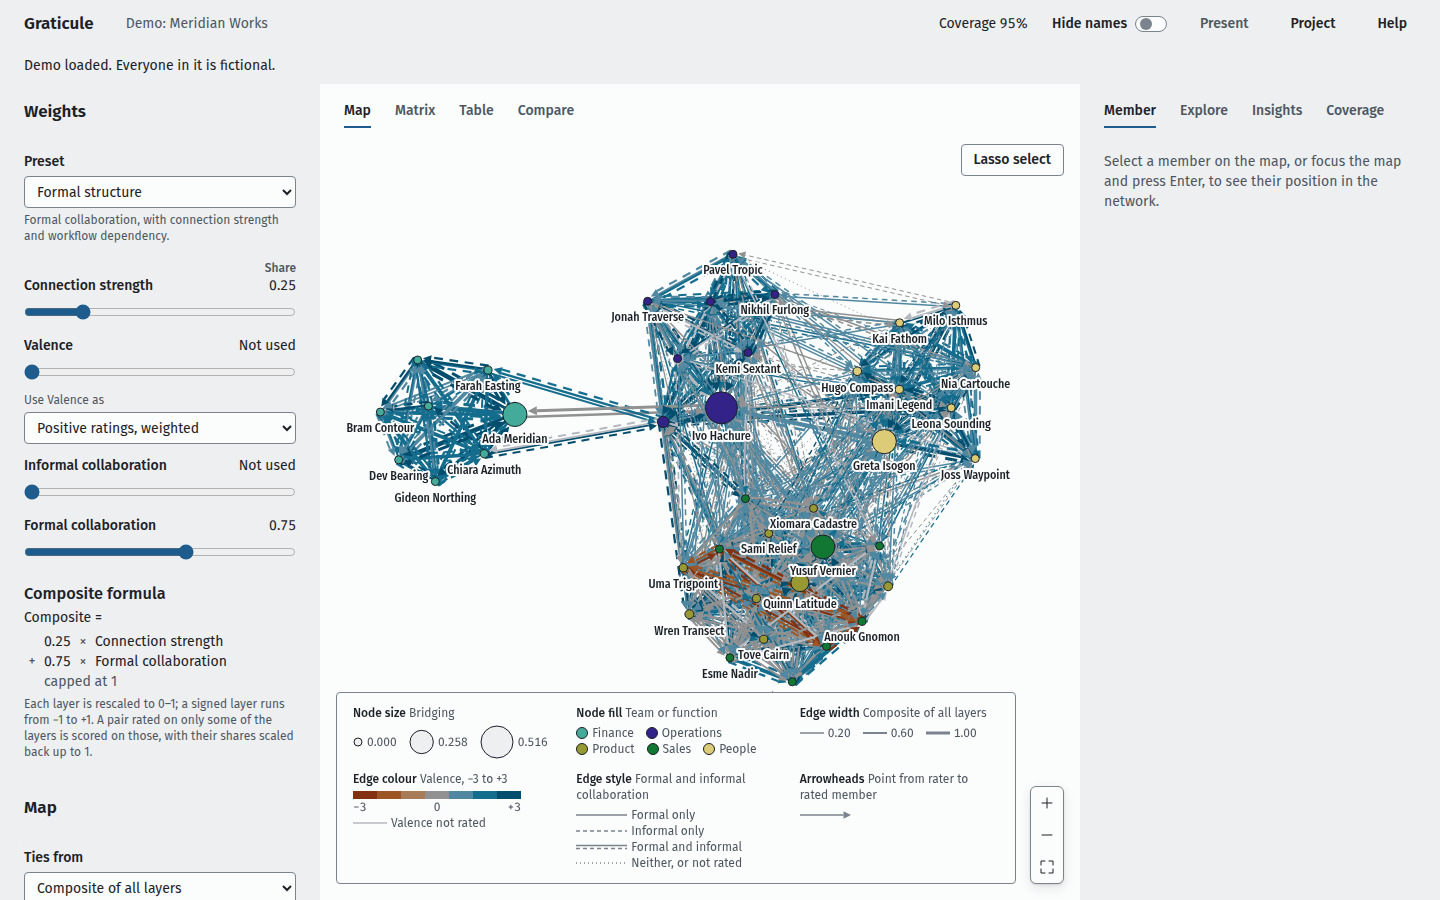
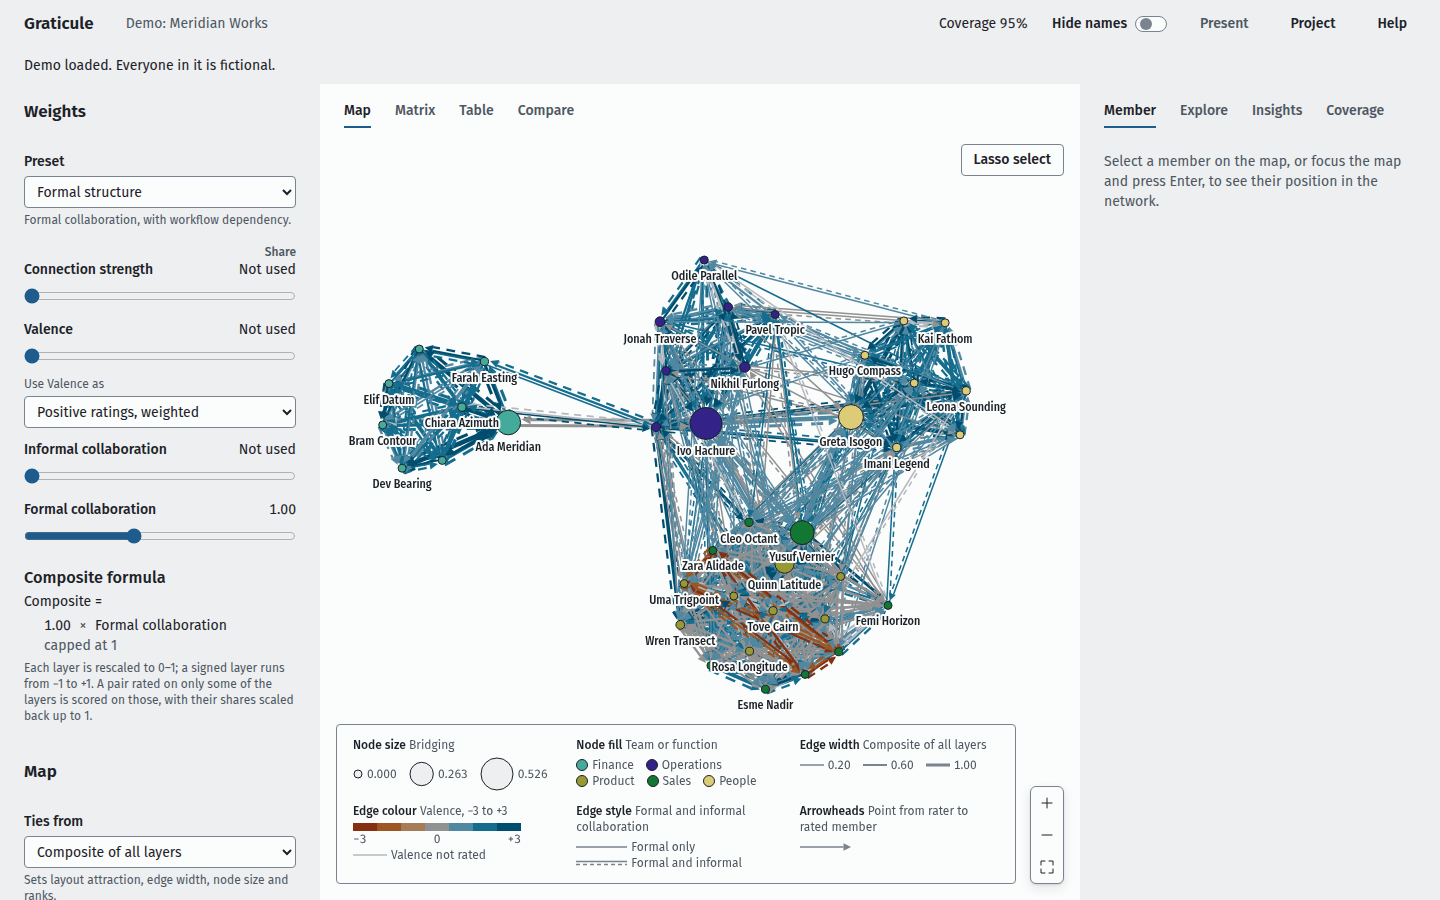
Presets: one 2:1 rule, valence as multiplier, no connection strength in formal or informal
Owner's answer to Q25: the defining layer has twice the raw weight of
each supporting layer; Relationship health scales its composite by
valence; Formal structure and Informal network no longer include
connection strength. Method notes, CLAUDE.md, tests and screenshots
updated.

Claude-Session: https://claude.ai/code/session_012WgdDTaTCoDTSkUx2Jhk5W

diff --git a/src/ui/state/presets.ts b/src/ui/state/presets.ts
@@ -17,24 +17,23 @@ interface PresetDefinition {
   treatment: Record<LayerKey, SignedTreatment>;
 }
 
+// One rule for every preset: the defining layer has twice the raw weight of
+// each supporting layer. Relationship health uses valence as a multiplier, so
+// negative ratings lower the composite rather than being ignored; its weight
+// only switches it on.
 export const PRESET_DEFINITIONS: Record<Exclude<Preset, 'custom'>, PresetDefinition> = {
   // Ties required by role, process or reporting line.
   formal: {
-    weights: { formal_collaboration: 0.6, connection_strength: 0.2, workflow_dependency: 0.2 },
+    weights: { formal_collaboration: 0.4, workflow_dependency: 0.2 },
     treatment: {},
   },
   // Collaboration and help that happen outside formal channels.
   informal: {
-    weights: {
-      informal_collaboration: 0.4,
-      connection_strength: 0.2,
-      advice: 0.2,
-      idea_sharing: 0.2,
-    },
+    weights: { informal_collaboration: 0.4, advice: 0.2, idea_sharing: 0.2 },
     treatment: {},
   },
-  // The affective quality of relationships: positive valence and energy,
-  // with trust and safety where those layers are collected.
+  // The quality of relationships: valence scales the composite, which sums
+  // connection strength, positive energy and, where collected, trust and safety.
   health: {
     weights: {
       valence: 0.4,
@@ -43,7 +42,7 @@ export const PRESET_DEFINITIONS: Record<Exclude<Preset, 'custom'>, PresetDefinit
       interpersonal_safety: 0.2,
       energy: 0.2,
     },
-    treatment: { valence: 'positive', energy: 'positive' },
+    treatment: { valence: 'multiplier', energy: 'positive' },
   },
 };
 

diff --git a/tests/e2e/explore.spec.ts b/tests/e2e/explore.spec.ts
@@ -107,10 +107,10 @@ test('weights: presets, sliders, signed treatment, live formula and animated lay
   const canvas = page.locator('canvas.map__canvas');
   await page.getByLabel('Preset').selectOption({ label: 'Formal structure' });
   await expect(canvas).toHaveAttribute('data-transition', 'running');
-  await expect(formula(page)).toContainText('0.75×Formal collaboration');
-  await expect(formula(page)).toContainText('0.25×Connection strength');
+  await expect(formula(page)).toContainText('1.00×Formal collaboration');
+  await expect(formula(page)).not.toContainText('Connection strength');
   await expect(formula(page)).not.toContainText('Informal collaboration');
-  await expect(leftColumn(page).locator('output', { hasText: 'Not used' })).toHaveCount(2);
+  await expect(leftColumn(page).locator('output', { hasText: 'Not used' })).toHaveCount(3);
   await settled(page);
   await shot(page, 'weights-formal-structure');
 
@@ -148,7 +148,7 @@ test('weights: presets, sliders, signed treatment, live formula and animated lay
     }).observe(c as Element, { attributes: true });
   });
   await page.getByLabel('Preset').selectOption({ label: 'Relationship health' });
-  await expect(formula(page)).toContainText('Valence, positive ratings');
+  await expect(formula(page)).toContainText('× (1 + 0.5 × Valence)');
   await page.waitForTimeout(1000);
   expect(await page.evaluate(() => (window as unknown as { __moved: boolean }).__moved)).toBe(
     false,

diff --git a/src/ui/copy/weights.ts b/src/ui/copy/weights.ts
@@ -12,10 +12,10 @@ export const weightsCopy = {
     custom: 'Custom',
   } satisfies Record<Preset, string>,
   presetHelp: {
-    formal: 'Formal collaboration, with connection strength and workflow dependency.',
-    informal: 'Informal collaboration, with connection strength, advice and idea sharing.',
+    formal: 'Formal collaboration, with workflow dependency.',
+    informal: 'Informal collaboration, with advice and idea sharing.',
     health:
-      'Positive valence and energy, with connection strength, benevolence-based trust and interpersonal safety.',
+      'Connection strength, positive energy, benevolence-based trust and interpersonal safety, scaled by valence.',
     custom: 'Your own weights. Moving a slider under a preset starts from its values.',
   } satisfies Record<Preset, string>,
   share: 'Share',

diff --git a/tests/unit/phase5.test.ts b/tests/unit/phase5.test.ts
@@ -119,11 +119,14 @@ describe('presets', () => {
   it('a preset leaves unlisted layers out with weight 0', () => {
     const w = effectiveWeights(demo, { ...initialWeightState(), preset: 'formal' });
     expect(w.weights).toEqual({
-      connection_strength: 0.2,
+      connection_strength: 0,
       valence: 0,
       informal_collaboration: 0,
-      formal_collaboration: 0.6,
+      formal_collaboration: 0.4,
     });
+    const health = effectiveWeights(demo, { ...initialWeightState(), preset: 'health' });
+    expect(health.signedTreatment.valence).toBe('multiplier');
+    expect(health.weights.connection_strength).toBe(0.2);
     const informal = effectiveWeights(demo, { ...initialWeightState(), preset: 'informal' });
     expect(weightsKey(informal)).not.toBe(weightsKey(w));
   });

diff --git a/docs/method-notes.md b/docs/method-notes.md
@@ -284,16 +284,20 @@ The engine returns the formula as a structure (terms, weights, filters, multipli
 
 **Meaning.** Starting points for the weights, named for the question being asked. Each names raw slider values for the layers it uses; every other enabled layer gets weight 0 and is left out. The engine normalises the summed layers' weights to 1, so only their proportions matter, and a layer a preset names but the project has not enabled is simply absent.
 
+One rule applies to every preset: the layer that defines it has twice the raw weight of each supporting layer.
+
 | Preset | Raw weights | Signed layers |
 |---|---|---|
-| Formal structure | formal collaboration 0.6, connection strength 0.2, workflow dependency 0.2 | none used |
-| Informal network | informal collaboration 0.4, connection strength 0.2, advice 0.2, idea sharing 0.2 | none used |
-| Relationship health | valence 0.4, connection strength 0.2, benevolence-based trust 0.2, interpersonal safety 0.2, energy 0.2 | valence and energy as positive ratings |
+| Formal structure | formal collaboration 0.4, workflow dependency 0.2 | none used |
+| Informal network | informal collaboration 0.4, advice 0.2, idea sharing 0.2 | none used |
+| Relationship health | connection strength, benevolence-based trust, interpersonal safety and energy 0.2 each | valence as a multiplier, energy as positive ratings |
 | Custom | the analyst's own slider values; a layer never moved uses its default weight (1) | as chosen |
 
-With only the four core layers enabled, Formal structure gives formal collaboration 0.75 and connection strength 0.25; Informal network gives informal collaboration 0.67 and connection strength 0.33; Relationship health gives valence (positive ratings) 0.67 and connection strength 0.33.
+Why these layers. Formal structure uses the ties created by role or process: formal collaboration (defined in spec §4.2 as required by role, process or reporting line) and workflow dependency. Informal network uses discretionary ties: informal collaboration, advice (the core informal relation in Cross & Parker, 2004) and idea sharing. Neither uses connection strength, so the two presets differ only in what defines them. Relationship health sums relational layers and lets valence, the overall affective quality of the relationship, scale the result, so a negative relationship lowers the composite (by up to half) instead of being scored like a neutral one. It leaves out competence-based trust, which concerns expertise rather than the relationship, and the conflict layers, which are frequencies that the composite could only add, so frequent conflict would raise the score.
 
-**Caveats.** The presets are conventions chosen for this tool, not published standards. Moving a slider under a preset switches to Custom, starting from the preset's values.
+With only the four core layers enabled, Formal structure is formal collaboration alone (1.00), Informal network is informal collaboration alone (1.00), and Relationship health is connection strength (1.00) scaled by valence.
+
+**Caveats.** The presets are conventions chosen for this tool and approved by the owner, not published standards; the 2 : 1 ratio in particular is a convention. Moving a slider under a preset switches to Custom, starting from the preset's values.
 
 ### Shortest path
 

diff --git a/CLAUDE.md b/CLAUDE.md
@@ -87,6 +87,8 @@ Phase 0 decisions D1–D13, Phase 1 decisions D14–D25 and Phase 3 decisions D3
 
 ## Resolved questions
 
+Q25 (preset weights): on 2026-09-26 the owner asked for one rule (the defining layer twice each supporting layer), valence as a multiplier in Relationship health, and connection strength dropped from Formal structure and Informal network. Built as described in `docs/method-notes.md` §6, "Presets" (amends D60).
+
 Q24 (member panel actions): on 2026-09-26 the owner approved placing Show ego network, Add to subgroup and Remove in simulation under the attributes (D64).
 
 Q23 (hierarchy overlay): on 2026-09-26 the owner confirmed that over the formal hierarchy the map draws informal collaboration ties, while node size, fill and ranks follow "Ties from" (D62).
@@ -103,7 +105,7 @@ On 2026-09-26 the owner approved `docs/plan.md` §6 Q1–Q17 with their proposed
 
 ## Open questions
 
-Q25 (preset weights): the preset weights (method notes §6, "Presets") are this build's conventions, not taken from a source. Confirm or supply your own.
+None.
 
 ## Phase status
 
